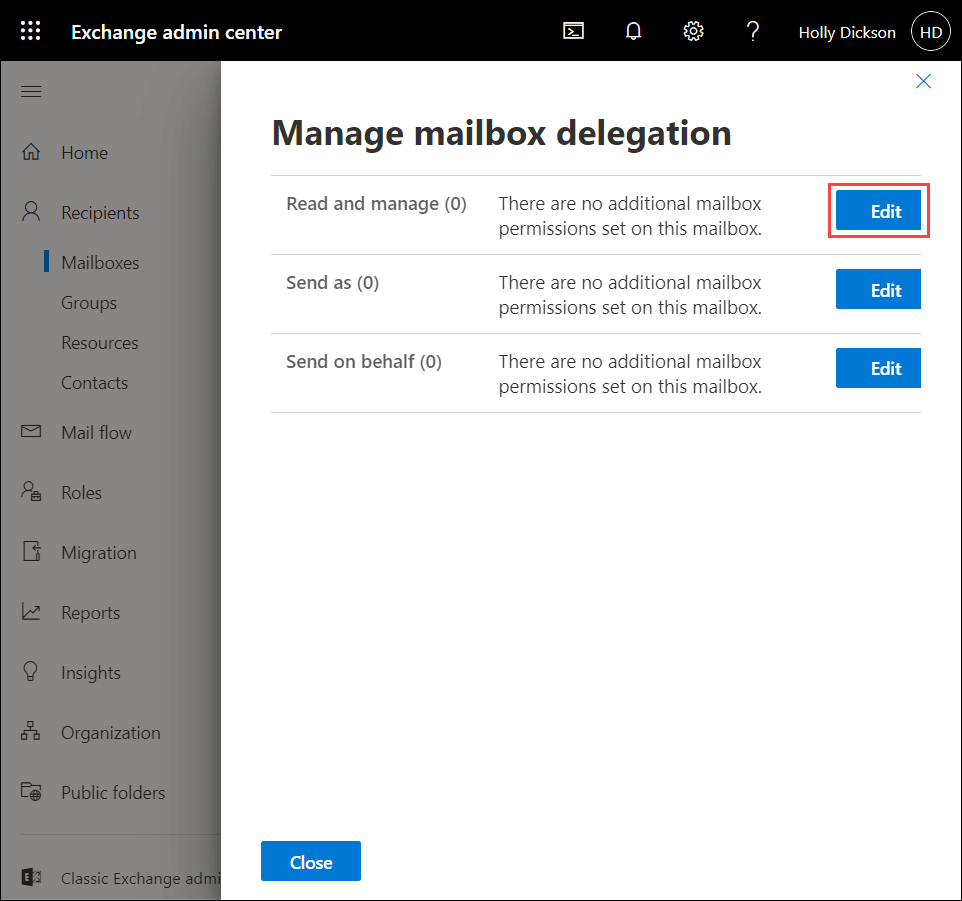
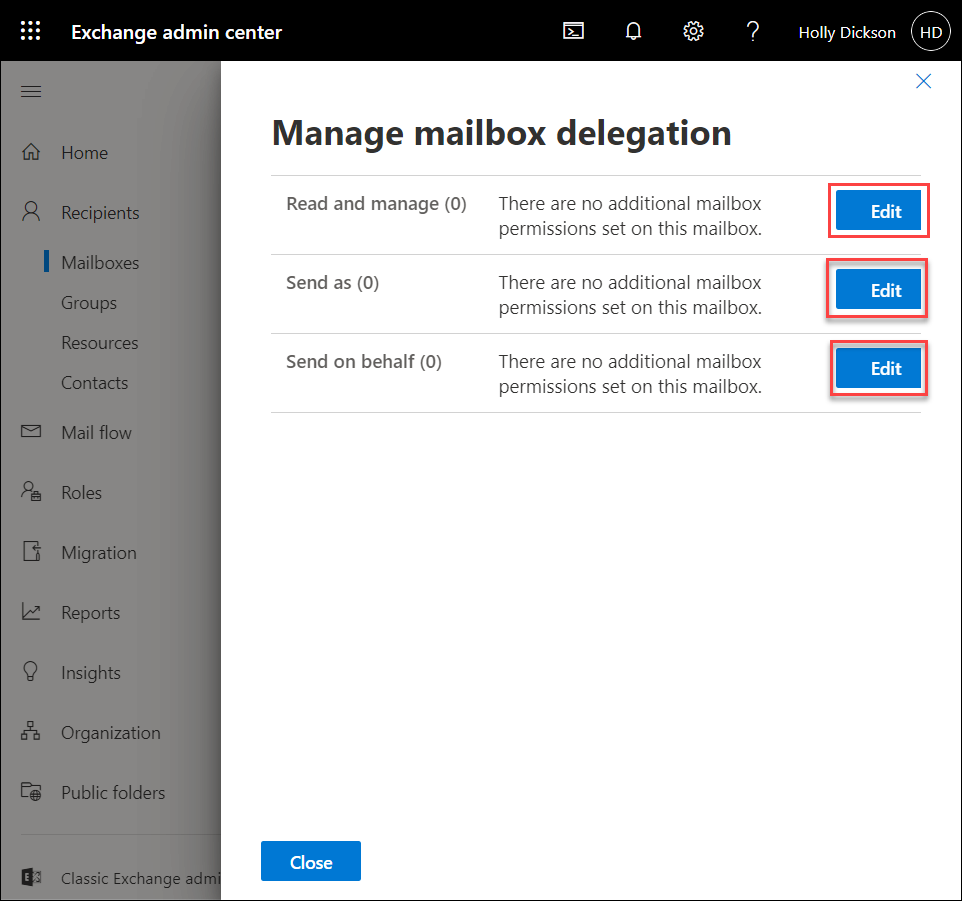
Update LAB_AK_03_Lab3_Ex4_Mailbox_Permission_Alert

Changed region(s): [[0.842, 0.2797, 0.9667, 0.4661]]

diff --git a/Instructions/Labs/LAB_AK_03_Lab3_Ex4_Mailbox_Permission_Alert.md b/Instructions/Labs/LAB_AK_03_Lab3_Ex4_Mailbox_Permission_Alert.md
@@ -77,11 +77,9 @@ In the prior task, you configured an alert that will notify Lynne Robbins when F
 
 4. In the **Mailboxes** window, select **Alex Wilber** from the list of mailboxes (select Alex's name; do not select the check mark to the left of his name).	
 
-	![](images/manage-mailbox.png)
-
 5. In the **Alex Wilber** pane that appears, the **Mailbox** tab is displayed by default. Under the **Mailbox permissions** section, select **Manage mailbox delegation**.
 
-	![](images/read-manage.png)
+	![](images/manage-mailbox.png)
 
 6. On the **Manage mailbox delegation** pane, there are three mailbox permissions that can be updated: **Read and manage**, **Send as**, and **Send on behalf**. You want to add each of these permissions for Alex's mailbox to **Joni Sherman**. For each permission, perform the following steps to add Joni to that permission: <br/>
 
@@ -91,11 +89,11 @@ In the prior task, you configured an alert that will notify Lynne Robbins when F
 	- Once the mailbox permission is added, select the back arrow at the top of the pane. 
 	- This displays Joni as having the permission that you just edited. At the top of the pane, select the back arrow to return to the **Manage mailbox delegation** pane, which displays the three permissions. Repeat these steps for each of the three permissions. 
 
-	![](images/add-perm-og.png)
+	![](images/read-manage.png)
 
 7. Once you have assigned Joni to each of the three permissions on the **Manage mailbox delegation** pane, select the **X** in the upper right-hand corner to close the pane
 	
-	![](images/joni-add.png)
+	![](images/mpa1.png)
 
 8. In the **Alex Wilber** pane, select the **X** in the upper right-hand corner to close the pane.
 
